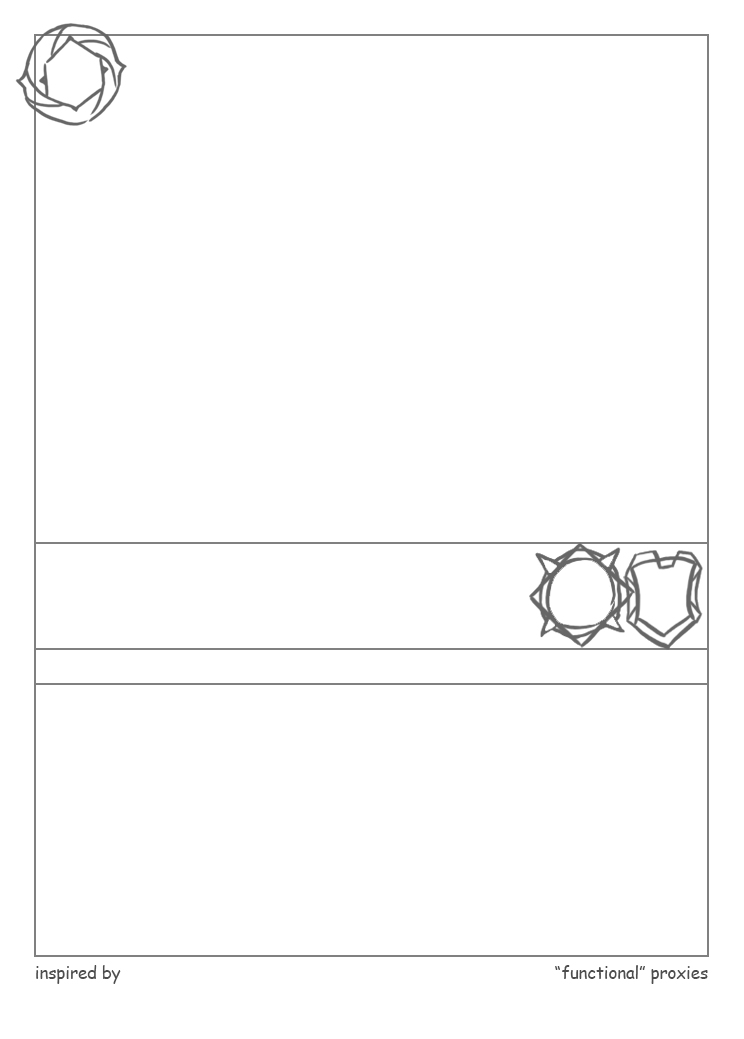
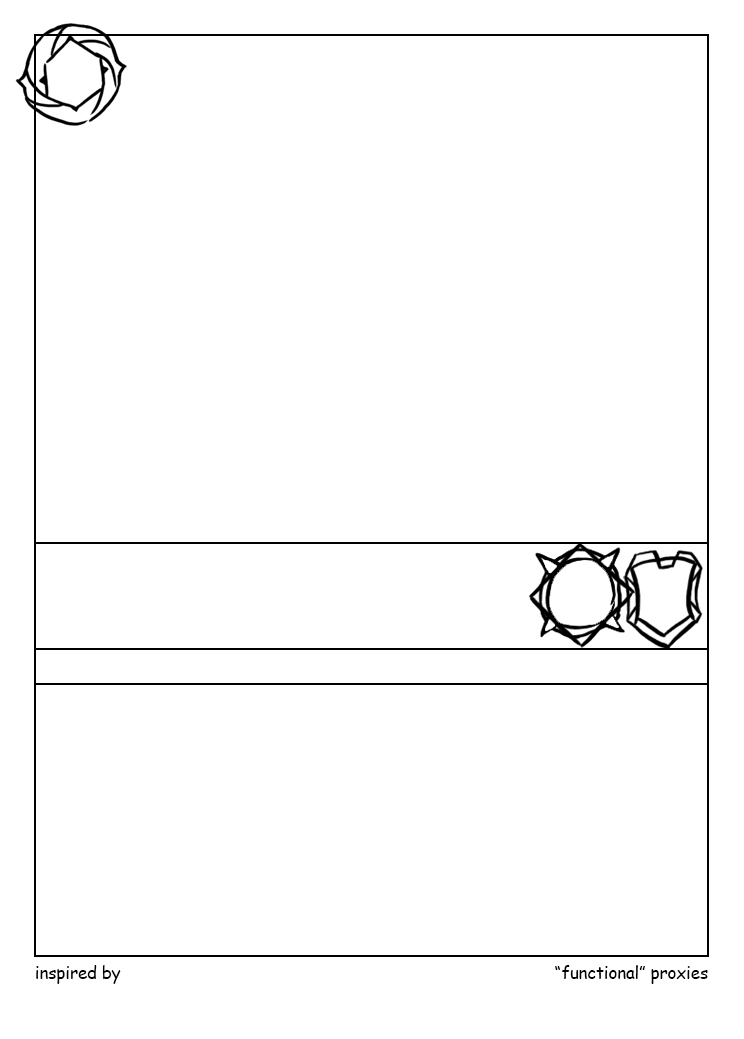
black

diff --git a/styles/styles.css b/styles/styles.css
@@ -33,7 +33,6 @@ body {
     width: 672px;
     background-size: contain;
     background-repeat: no-repeat;
-    filter: opacity(60%);
 }
 
 
@@ -41,7 +40,7 @@ body {
 
 .overlay {
     position: absolute;
-    color: #666666;
+    color: black;
 }
 
 #card-ink {
@@ -168,7 +167,6 @@ body {
     width: 34px;
     height: 56px;
     margin: 2px 4px;
-    filter: opacity(60%);
 }
 
 /* Card Footer */
@@ -187,7 +185,6 @@ body {
 }
 #card-rarity img {
     width: 36px;
-    filter: opacity(60%);
 }
 
 #card-artist {
